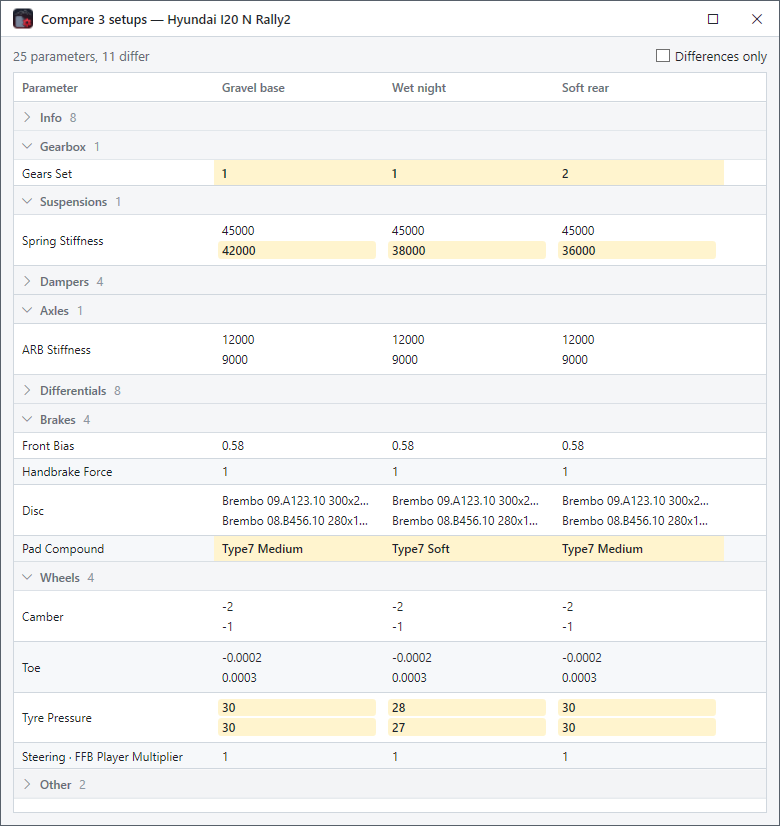
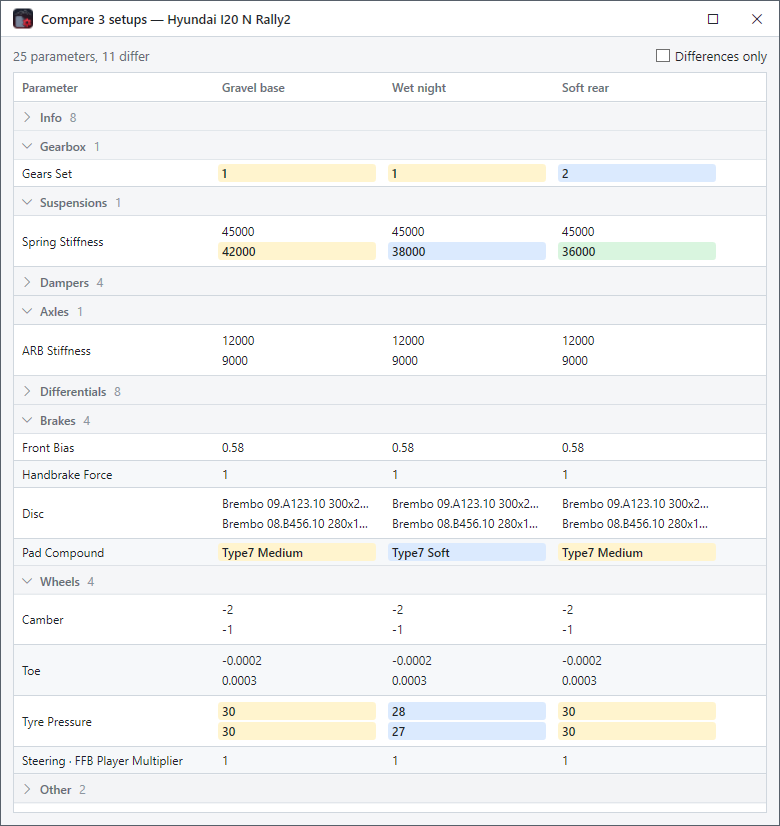
feat(setup): colour each differing value of a compared row on its own
The viewer marked every value a row of compared setups differs on with
one colour. With two setups that says enough; with three or more it
does not say which setups match: a row set 42000, 38000 and 36000 and
one set 30, 28 and 30 looked the same.

Each distinct value of a row now takes a colour of its own, in the
order the values first come in, and the setups that share a value
share its colour: 30, 28, 30 reads amber, blue, amber. A row of wheels
colours each wheel the same way, among the values at its place, and a
wheel every setup agrees on stays plain. The palette has six colours,
in the light theme and the dark one, amber first as before; past six
distinct values on a row, they come round again. A single setup has
no colours.

The colour sits behind the text, as on the wheels already, rather
than over the whole cell: one cell style cannot tell its column, and
a value cell now looks like a wheel's. HighlightsRow, the row-level
mark that only that cell style read, goes with it. The README says so,
and its comparison screenshot is taken again on the same made-up saves.

Verified with new tests on the colours of a row, of each wheel, past
the sixth value and for a single setup, and the three assertions on
HighlightsRow now read the colours of the cells; on the built app with
synthetic saves, three setups compared in light and dark: a row of
three values in three colours, a matching pair in one, plain rows
[…]

diff --git a/src/UI/SetupViewer.xaml b/src/UI/SetupViewer.xaml
@@ -58,13 +58,38 @@
               VirtualizingPanel.IsVirtualizingWhenGrouping="True"
               HorizontalScrollBarVisibility="Auto" VerticalScrollBarVisibility="Auto">
       <DataGrid.Resources>
-        <!-- a value that differs: its cells stand out, not the label's. Set on
-             the setup columns only, from the code. -->
-        <Style x:Key="SetupCell" TargetType="DataGridCell" BasedOn="{StaticResource {x:Type DataGridCell}}">
+        <!-- A value the setups differ on, in the colour of that value: the
+             setups that share it share the colour, so among three or more it
+             shows which match which. The padding gives the colour some room;
+             the margin takes it back, so the text lines up with the others. -->
+        <Style x:Key="Shaded" TargetType="Border">
+          <Setter Property="Padding" Value="4,1"/>
+          <Setter Property="Margin" Value="-4,1,0,1"/>
+          <Setter Property="CornerRadius" Value="3"/>
           <Style.Triggers>
-            <DataTrigger Binding="{Binding HighlightsRow}" Value="True">
-              <Setter Property="Background" Value="{DynamicResource Brush.Diff}"/>
-              <Setter Property="FontWeight" Value="SemiBold"/>
+            <DataTrigger Binding="{Binding Shade}" Value="0">
+              <Setter Property="Background" Value="{DynamicResource Brush.Diff0}"/>
+              <Setter Property="TextElement.FontWeight" Value="SemiBold"/>
+            </DataTrigger>
+            <DataTrigger Binding="{Binding Shade}" Value="1">
+              <Setter Property="Background" Value="{DynamicResource Brush.Diff1}"/>
+              <Setter Property="TextElement.FontWeight" Value="SemiBold"/>
+            </DataTrigger>
+            <DataTrigger Binding="{Binding Shade}" Value="2">
+              <Setter Property="Background" Value="{DynamicResource Brush.Diff2}"/>
+              <Setter Property="TextElement.FontWeight" Value="SemiBold"/>
+            </DataTrigger>
+            <DataTrigger Binding="{Binding Shade}" Value="3">
+              <Setter Property="Background" Value="{DynamicResource Brush.Diff3}"/>
+              <Setter Property="TextElement.FontWeight" Value="SemiBold"/>
+            </DataTrigger>
+            <DataTrigger Binding="{Binding Shade}" Value="4">
+              <Setter Property="Background" Value="{DynamicResource Brush.Diff4}"/>
+              <Setter Property="TextElement.FontWeight" Value="SemiBold"/>
+            </DataTrigger>
+            <DataTrigger Binding="{Binding Shade}" Value="5">
+              <Setter Property="Background" Value="{DynamicResource Brush.Diff5}"/>
+              <Setter Property="TextElement.FontWeight" Value="SemiBold"/>
             </DataTrigger>
           </Style.Triggers>
         </Style>
@@ -72,22 +97,16 @@
         <!-- A setup's cell, chosen by the row's kind (CellTemplates). TrimmedText
              is set from the code: its tooltip opens only on a text cut short. -->
         <DataTemplate x:Key="ValueCell">
-          <TextBlock Text="{Binding Text}" Style="{DynamicResource TrimmedText}" VerticalAlignment="Center"/>
+          <Border Style="{StaticResource Shaded}" VerticalAlignment="Center">
+            <TextBlock Text="{Binding Text}" Style="{DynamicResource TrimmedText}"/>
+          </Border>
         </DataTemplate>
 
-        <!-- one wheel's or one axle's value, marked when the setups differ on it -->
+        <!-- one wheel's or one axle's value -->
         <DataTemplate x:Key="Part">
-          <!-- the padding gives the mark some room; the margin takes it back, so
-               the text lines up with a one-value cell's -->
-          <Border x:Name="bd" Padding="4,1" Margin="-4,1,0,1" CornerRadius="3">
-            <TextBlock x:Name="tx" Text="{Binding Text}" Style="{DynamicResource TrimmedText}"/>
+          <Border Style="{StaticResource Shaded}">
+            <TextBlock Text="{Binding Text}" Style="{DynamicResource TrimmedText}"/>
           </Border>
-          <DataTemplate.Triggers>
-            <DataTrigger Binding="{Binding Differs}" Value="True">
-              <Setter TargetName="bd" Property="Background" Value="{DynamicResource Brush.Diff}"/>
-              <Setter TargetName="tx" Property="FontWeight" Value="SemiBold"/>
-            </DataTrigger>
-          </DataTemplate.Triggers>
         </DataTemplate>
 
         <!-- the car seen from above: front on top, its left on the left. An axle

diff --git a/src/UI/MainWindow.xaml b/src/UI/MainWindow.xaml
@@ -47,7 +47,12 @@
     <!-- grid-only keys (ACR Live Timing has no data grid) -->
     <SolidColorBrush x:Key="Brush.RowAlt"        Color="#F6F8FA"/>
     <SolidColorBrush x:Key="Brush.Selection"     Color="#DDE7F2"/>
-    <SolidColorBrush x:Key="Brush.Diff"          Color="#FFF4CE"/>
+    <SolidColorBrush x:Key="Brush.Diff0"         Color="#FFF4CE"/>
+    <SolidColorBrush x:Key="Brush.Diff1"         Color="#DBEAFE"/>
+    <SolidColorBrush x:Key="Brush.Diff2"         Color="#D9F5DF"/>
+    <SolidColorBrush x:Key="Brush.Diff3"         Color="#FCE4EF"/>
+    <SolidColorBrush x:Key="Brush.Diff4"         Color="#EAE4FB"/>
+    <SolidColorBrush x:Key="Brush.Diff5"         Color="#D2F4F0"/>
 
     <!-- flat themed scrollbar: thin, rounded thumb, no arrow buttons -->
     <Style x:Key="ScrollThumbStyle" TargetType="Thumb">

diff --git a/src/Services/SetupView.cs b/src/Services/SetupView.cs
@@ -15,7 +15,11 @@ public enum SetupViewKind
 }
 
 /// <summary>One wheel's or one axle's value, and whether the setups differ on it.</summary>
-public sealed record SetupViewPart(string Text, bool Differs);
+public sealed record SetupViewPart(string Text, bool Differs)
+{
+    /// <summary>The colour of this value among the setups': see <see cref="SetupView.ShadesOf"/>.</summary>
+    public int Shade { get; init; } = SetupView.NoShade;
+}
 
 /// <summary>
 /// What a row holds for one setup: <see cref="Text"/>, in one line, and for
@@ -31,6 +35,12 @@ public sealed record SetupViewCell(string Text, IReadOnlyList<SetupViewPart> Par
 
     /// <summary>The same for the rear wheels, the third part and the fourth.</summary>
     public bool RearPaired { get; init; }
+
+    /// <summary>
+    /// In a row of one value, the colour of this one among the setups': see
+    /// <see cref="SetupView.ShadesOf"/>. A row of parts colours its parts instead.
+    /// </summary>
+    public int Shade { get; init; } = SetupView.NoShade;
 }
 
 /// <summary>
@@ -53,9 +63,6 @@ public sealed record SetupViewRow(string Section, string Label, IReadOnlyList<Se
 
     /// <summary>The setup's own name, kept even when only differences are shown.</summary>
     public bool IsName => Section == SetupSection && Label == "Name";
-
-    /// <summary>The whole row stands out; a row of parts marks the parts that differ instead.</summary>
-    public bool HighlightsRow => Differs && Kind == SetupViewKind.Value;
 }
 
 /// <summary>
@@ -67,6 +74,12 @@ public static partial class SetupView
 {
     /// <summary>The value of a parameter one setup lacks and another has.</summary>
     public const string Missing = "—";
+
+    /// <summary>The shade of a value every setup shown shares.</summary>
+    public const int NoShade = -1;
+
+    /// <summary>How many colours the viewer has for the values that differ.</summary>
+    public const int Shades = 6;
 
     /// <summary>
     /// The sections in the order they are shown, by the first part of the keys.
@@ -159,10 +172,34 @@ public static partial class SetupView
     private static SetupViewRow Info(string label, IReadOnlyList<SetupExportData> setups, Func<SetupExportData, string> value)
     {
         var values = setups.Select(value).ToList();
-        return new SetupViewRow(SetupViewRow.SetupSection, label, [.. values.Select(Cell)], Differ(values));
+        return new SetupViewRow(SetupViewRow.SetupSection, label, Cells(values), Differ(values));
     }
 
-    private static SetupViewCell Cell(string text) => new(text, []);
+    // one cell per setup, each value in its colour
+    private static List<SetupViewCell> Cells(List<string> values)
+    {
+        int[] shades = ShadesOf(values);
+        return [.. values.Select((v, i) => new SetupViewCell(v, []) { Shade = shades[i] })];
+    }
+
+    /// <summary>
+    /// The colour of each of <paramref name="values"/>, one per setup: the same
+    /// value has the same one, in the order the values first come in, so that
+    /// among three setups or more it shows which match which. All
+    /// <see cref="NoShade"/> when the setups agree; past <see cref="Shades"/>
+    /// distinct values, the colours come round again.
+    /// </summary>
+    public static int[] ShadesOf(IReadOnlyList<string> values)
+    {
+        if (!Differ([.. values])) return [.. values.Select(_ => NoShade)];
+        var order = new List<string>();
+        return [.. values.Select(v =>
+        {
+            int i = order.IndexOf(v);
+            if (i < 0) { order.Add(v); i = order.Count - 1; }
+            return i % Shades;
+        })];
+    }
 
     private static string ValueOf(SetupExportData setup, string key) =>
         setup.Parameters.TryGetValue(key, out string? v) ? FormatValue(v) : Missing;
@@ -170,7 +207,7 @@ public static partial class SetupView
     private static SetupViewRow Single(string section, string label, string key, IReadOnlyList<SetupExportData> setups)
     {
         var values = setups.Select(s => ValueOf(s, key)).ToList();
-        return new SetupViewRow(section, label, [.. values.Select(Cell)], Differ(values));
+        return new SetupViewRow(section, label, Cells(values), Differ(values));
     }
 
     /// <summary>
@@ -188,17 +225,17 @@ public static partial class SetupView
             if (axles.All(v => v[0] == v[1]))
             {
                 var one = axles.Select(v => v[0]).ToList();
-                return new SetupViewRow(section, label, [.. one.Select(Cell)], Differ(one));
+                return new SetupViewRow(section, label, Cells(one), Differ(one));
             }
             return PerAxle(section, label, axles);
         }
 
         bool[] differs = PartsDiffer(values);
-        var cells = values.Select(v => new SetupViewCell(
+        var cells = values.Select((v, i) => new SetupViewCell(
             string.Join(" · ",
                 front ? $"F {v[0]}" : $"FL {v[0]} · FR {v[1]}",
                 rear ? $"R {v[2]}" : $"RL {v[2]} · RR {v[3]}"),
-            [.. v.Select((x, p) => new SetupViewPart(x, differs[p]))])
+            Parts(values, i, differs))
         {
             FrontPaired = front,
             RearPaired = rear,
@@ -210,11 +247,16 @@ public static partial class SetupView
     private static SetupViewRow PerAxle(string section, string label, List<string[]> values)
     {
         bool[] differs = PartsDiffer(values);
-        var cells = values.Select(v => new SetupViewCell(
-            $"F {v[0]} · R {v[1]}",
-            [.. v.Select((x, p) => new SetupViewPart(x, differs[p]))]));
+        var cells = values.Select((v, i) => new SetupViewCell($"F {v[0]} · R {v[1]}", Parts(values, i, differs)));
         return new SetupViewRow(section, label, [.. cells], differs.Any(d => d)) { Kind = SetupViewKind.Axles };
     }
+
+    // setup i's parts, each in its colour among the setups' values at its place
+    private static List<SetupViewPart> Parts(List<string[]> values, int i, bool[] differs) =>
+        [.. values[i].Select((x, p) => new SetupViewPart(x, differs[p])
+        {
+            Shade = ShadesOf([.. values.Select(v => v[p])])[i],
+        })];
 
     // for each position, whether the setups set it apart
     private static bool[] PartsDiffer(List<string[]> values) =>

diff --git a/tests/ACRSaveManager.Tests/SetupViewTests.cs b/tests/ACRSaveManager.Tests/SetupViewTests.cs
@@ -138,7 +138,7 @@ public class SetupViewTests
 
         var pressure = rows.Single(r => r.Label == "Tyre Pressure");
         Assert.True(pressure.Differs);
-        Assert.False(pressure.HighlightsRow);    // the parts are marked, not the row
+        Assert.All(pressure.Cells, c => Assert.Equal(SetupView.NoShade, c.Shade));    // the parts are coloured, not the row
         Assert.All(pressure.Cells, c => Assert.Equal([false, true, false, false], c.Parts.Select(p => p.Differs)));
         Assert.Equal(["30", "31", "28", "28"], pressure.Cells[1].Parts.Select(p => p.Text));
 
@@ -164,7 +164,7 @@ public class SetupViewTests
 
         Assert.Equal(SetupViewKind.Value, row.Kind);
         Assert.Equal(["0", "1"], row.Values);
-        Assert.True(row.HighlightsRow);
+        Assert.Equal([0, 1], row.Cells.Select(c => c.Shade));
     }
 
     [Fact]
@@ -234,7 +234,7 @@ public class SetupViewTests
         var abs = rows.Single(r => r.Label == "Electronic · ABS");
         Assert.Equal(["0", "1"], abs.Values);
         Assert.True(abs.Differs);
-        Assert.True(abs.HighlightsRow);
+        Assert.Equal([0, 1], abs.Cells.Select(c => c.Shade));
 
         var name = rows.Single(r => r.IsName);
         Assert.Equal(["Alpha", "Beta"], name.Values);
@@ -257,5 +257,49 @@ public class SetupViewTests
         // a key the first setup lacks still joins its section
         Assert.Equal(["Steering · FFB Player Multiplier", "Electronic · ABS", "Lights · Additional Lights"],
             rows.Skip(8).Select(r => r.Label));
+    }
+
+    [Fact]
+    public void Values_that_differ_take_a_colour_each_and_matching_ones_share_it()
+    {
+        Assert.Equal([0, 1, 0, 2], SetupView.ShadesOf(["30", "31", "30", "28"]));
+        Assert.Equal([SetupView.NoShade, SetupView.NoShade], SetupView.ShadesOf(["1", "1"]));
+        Assert.Equal([SetupView.NoShade], SetupView.ShadesOf(["1"]));
+
+        // past the colours there are, they come round again
+        string[] many = [.. Enumerable.Range(0, SetupView.Shades + 1).Select(i => $"{i}")];
+        Assert.Equal(0, SetupView.ShadesOf(many)[^1]);
+    }
+
+    [Fact]
+    public void Each_value_and_each_wheel_is_shown_in_its_colour()
+    {
+        var rows = SetupView.Rows([
+            Setup("Alpha", [("Other.Electronic.ABS", "0.0"), .. PerWheel("TyrePressure", 30, 30, 28, 28)]),
+            Setup("Beta", [("Other.Electronic.ABS", "1.0"), .. PerWheel("TyrePressure", 30, 31, 28, 28)]),
+            Setup("Gamma", [("Other.Electronic.ABS", "0.0"), .. PerWheel("TyrePressure", 32, 32, 28, 28)]),
+        ]);
+
+        var abs = rows.Single(r => r.Label == "Electronic · ABS");
+        Assert.Equal([0, 1, 0], abs.Cells.Select(c => c.Shade));
+
+        // front left: 30, 30, 32; front right: 30, 31, 32; the rear ones match
+        var pressure = rows.Single(r => r.Label == "Tyre Pressure");
+        Assert.Equal([0, 0, 1], pressure.Cells.Select(c => c.Parts[0].Shade));
+        Assert.Equal([0, 1, 2], pressure.Cells.Select(c => c.Parts[1].Shade));
+        Assert.All(pressure.Cells, c => Assert.Equal(SetupView.NoShade, c.Parts[2].Shade));
+        Assert.All(pressure.Cells, c => Assert.Equal(SetupView.NoShade, c.Shade));
+    }
+
+    [Fact]
+    public void A_single_setup_has_no_colours()
+    {
+        var rows = SetupView.Rows([Setup("Alpha", PerWheel("Camber", -2, -1, -1, -1))]);
+
+        Assert.All(rows, r => Assert.All(r.Cells, c =>
+        {
+            Assert.Equal(SetupView.NoShade, c.Shade);
+            Assert.All(c.Parts, p => Assert.Equal(SetupView.NoShade, p.Shade));
+        }));
     }
 }

diff --git a/src/UI/MainWindow.xaml.cs b/src/UI/MainWindow.xaml.cs
@@ -129,7 +129,12 @@ public partial class MainWindow : Window
         ["Brush.ScrollThumbHover"] = C(0xAE, 0xB6, 0xBF),
         ["Brush.RowAlt"] = C(0xF6, 0xF8, 0xFA),
         ["Brush.Selection"] = C(0xDD, 0xE7, 0xF2),
-        ["Brush.Diff"] = C(0xFF, 0xF4, 0xCE),       // setup viewer: values that differ
+        ["Brush.Diff0"] = C(0xFF, 0xF4, 0xCE),       // setup viewer: values that differ, one colour each (amber first)
+        ["Brush.Diff1"] = C(0xDB, 0xEA, 0xFE),       // blue
+        ["Brush.Diff2"] = C(0xD9, 0xF5, 0xDF),       // green
+        ["Brush.Diff3"] = C(0xFC, 0xE4, 0xEF),       // pink
+        ["Brush.Diff4"] = C(0xEA, 0xE4, 0xFB),       // violet
+        ["Brush.Diff5"] = C(0xD2, 0xF4, 0xF0),       // teal
     };
 
     private static readonly Dictionary<string, Color> DarkPalette = new()
@@ -157,7 +162,12 @@ public partial class MainWindow : Window
         ["Brush.ScrollThumbHover"] = C(0x4C, 0x55, 0x61),
         ["Brush.RowAlt"] = C(0x1B, 0x21, 0x2A),
         ["Brush.Selection"] = C(0x2C, 0x35, 0x42),
-        ["Brush.Diff"] = C(0x5C, 0x45, 0x0E),       // amber, bright enough to see on the card
+        ["Brush.Diff0"] = C(0x5C, 0x45, 0x0E),       // setup viewer: values that differ, one colour each (amber first)
+        ["Brush.Diff1"] = C(0x1E, 0x3A, 0x5F),       // blue
+        ["Brush.Diff2"] = C(0x1F, 0x4A, 0x2C),       // green
+        ["Brush.Diff3"] = C(0x5A, 0x21, 0x40),       // pink
+        ["Brush.Diff4"] = C(0x3B, 0x2E, 0x66),       // violet
+        ["Brush.Diff5"] = C(0x11, 0x4A, 0x45),       // teal
     };
 
     // ══════════════════════════════════════════════════════════════════════════

diff --git a/src/UI/SetupViewer.xaml.cs b/src/UI/SetupViewer.xaml.cs
@@ -125,7 +125,6 @@ public partial class SetupViewer : Window
             HeaderTemplate = TrimmedHeader,
             HeaderStyle = HeaderStyle(header),
             CellTemplate = template,
-            CellStyle = (Style)GridParams.FindResource("SetupCell"),
             ClipboardContentBinding = new Binding($"{nameof(SetupViewRow.Values)}[{index}]"),
             MinWidth = 90,
             Width = width,

diff --git a/README.fr.md b/README.fr.md
@@ -122,7 +122,9 @@ setups tels qu'ils étaient à son ouverture.
   séparent en avant, arrière et central.
 - Sélectionnez plusieurs setups d'une même voiture pour les comparer : une
   colonne chacun, les valeurs qui diffèrent en surbrillance — sur une ligne de
-  roues, seulement les roues qui diffèrent — et comptées en haut.
+  roues, seulement les roues qui diffèrent — et comptées en haut. Chaque valeur a
+  sa couleur, partagée par les setups qui l'ont : à partir de trois setups, on
+  voit lesquels se rejoignent.
   **Differences only** masque le reste. Des setups de voitures différentes ont
   trop peu de paramètres en commun, et sont refusés.
 - Une valeur trop longue pour sa colonne finit par « … » et s'affiche en entier

diff --git a/README.md b/README.md
@@ -113,8 +113,10 @@ when it opened.
   split into front, rear and centre.
 - Select several setups of one car to compare them: one column each, the values
   they set apart highlighted — on a row of wheels, only the wheels that differ —
-  and counted at the top. **Differences only** hides the rest. Setups of
-  different cars share too few parameters, and are refused.
+  and counted at the top. Each value has a colour of its own, which the setups
+  sharing it share: among three setups or more, it shows which match which.
+  **Differences only** hides the rest. Setups of different cars share too few
+  parameters, and are refused.
 - A value too long for its column ends in "…" and shows whole under the mouse;
   Ctrl+C copies the selected rows.
 
